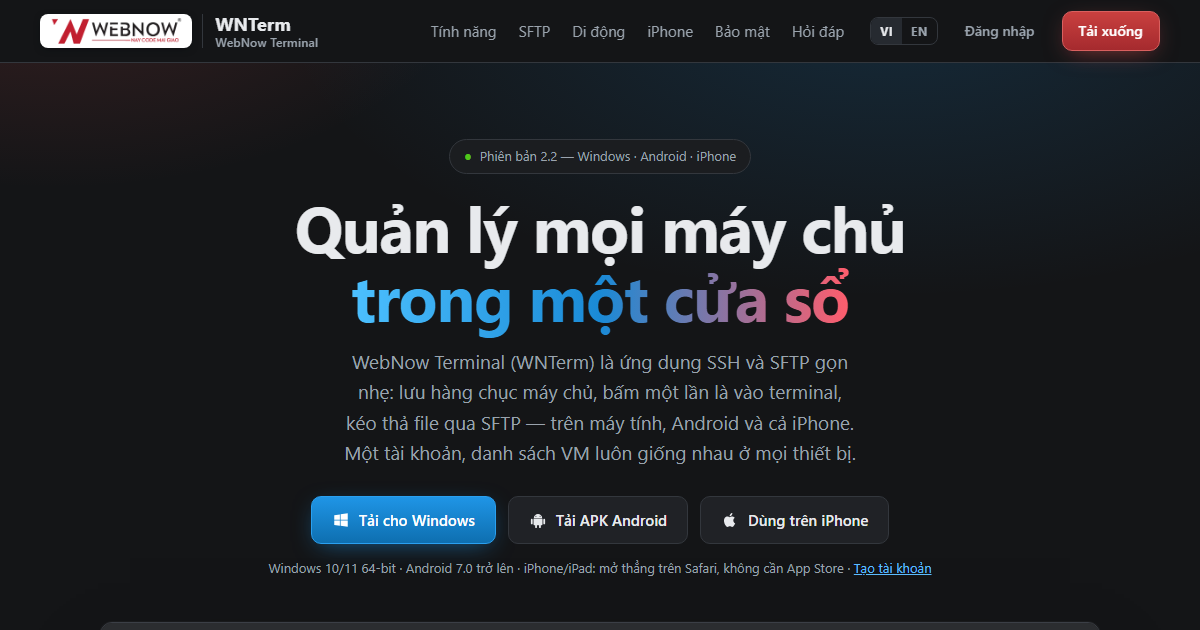
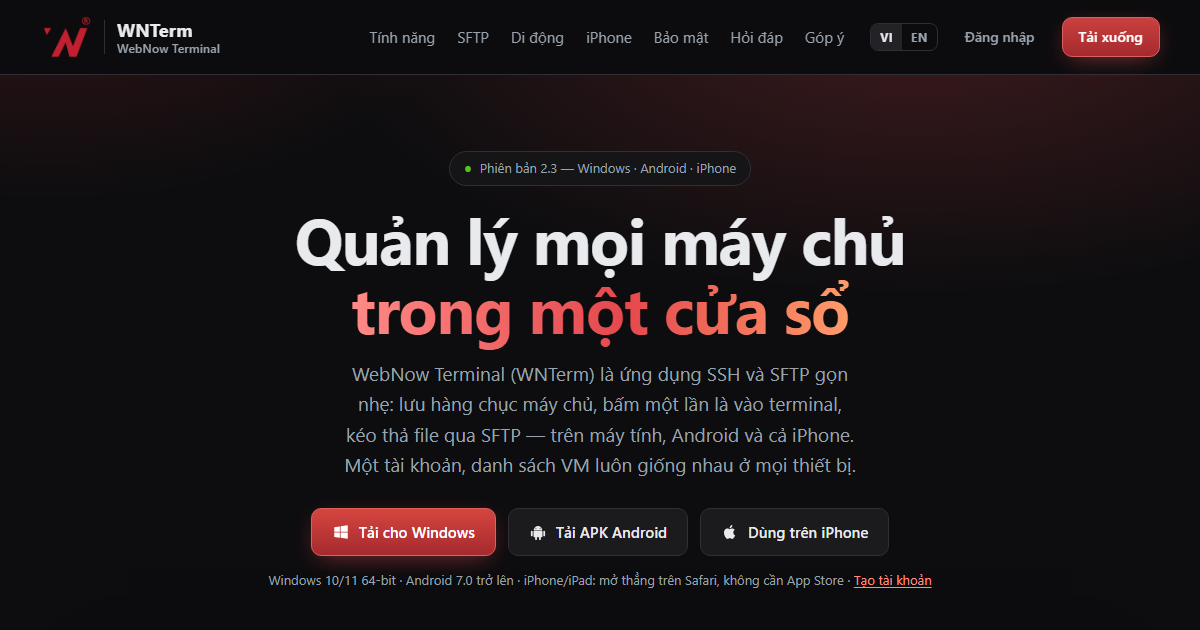
SEO + PageSpeed + tông đỏ-đen cho website
- canonical, hreflang, URL tiếng Anh /en/, JSON-LD (Organization/WebSite/SoftwareApplication/FAQPage)
- robots.txt, sitemap.xml động, noindex cho trang đăng nhập/đăng ký/khôi phục
- nén + cache tĩnh, lazy-load Turnstile, bỏ font 404, sửa tương phản/heading/landmark
- giao diện đỏ-đen, og-image mới (mock app giữ màu xanh)

diff --git a/server/public/assets/css/site.css b/server/public/assets/css/site.css
@@ -1,8 +1,6 @@
-@font-face{font-family:"JB Mono";src:url(assets/fonts/JetBrainsMono-Regular.woff2) format("woff2");font-weight:400;font-display:swap}
-@font-face{font-family:"JB Mono";src:url(assets/fonts/JetBrainsMono-Bold.woff2) format("woff2");font-weight:700;font-display:swap}
 :root{
-  --bg:#141517; --bg2:#1b1d20; --panel:#202226; --panel2:#262a30; --line:#33373d;
-  --fg:#e8eaed; --muted:#9aa3ad; --accent:#1a8ad6; --accent2:#0e639c; --red:#d4283a; --green:#52c41a; --amber:#faad14;
+  --bg:#0d0d0f; --bg2:#151517; --panel:#1b1b1e; --panel2:#232327; --line:#2f2f35;
+  --fg:#e8eaed; --muted:#9aa3ad; --accent:#e5484d; --accent2:#a52a2e; --red:#d4283a; --green:#52c41a; --amber:#faad14;
   --mono:"JB Mono",ui-monospace,Consolas,Menlo,monospace;
   --sans:system-ui,-apple-system,"Segoe UI",Roboto,"Helvetica Neue",Arial,sans-serif;
 }
@@ -50,7 +48,7 @@ h1 em{font-style:normal;background:linear-gradient(90deg,#4cc0ff,#1a8ad6 50%,#ff
 .body{display:grid;grid-template-columns:270px minmax(0,1fr);min-height:340px}
 .side{background:#252526;border-right:1px solid #3c3c3c;padding:10px}
 .tabs2{display:flex;gap:3px;margin:-2px 0 9px;border-bottom:1px solid #3c3c3c}
-.tabs2 b{padding:5px 12px;color:#aaa;font-size:12px}
+.tabs2 b{padding:5px 12px;color:#c4c4c4;font-size:12px}
 .tabs2 b.a{color:#fff;border-bottom:2px solid #1177bb}
 .search{height:26px;border:1px solid #3c3c3c;border-radius:6px;background:#2d2d30;margin-bottom:8px}
 .chips{display:flex;gap:5px;margin-bottom:8px}
@@ -72,7 +70,7 @@ h1 em{font-style:normal;background:linear-gradient(90deg,#4cc0ff,#1a8ad6 50%,#ff
 .tab.a{background:#1e1e1e;border:1px solid #3c3f41;border-bottom:0}
 .tab:before{content:"";width:7px;height:7px;border-radius:50%;background:#52c41a}
 .term{flex:1;padding:12px 14px;font:12.5px/1.55 var(--mono);color:#d4d4d4;white-space:pre;overflow:hidden}
-.term .g{color:#6a9955}.term .b{color:#569cd6}.term .y{color:#dcdcaa}.term .r{color:#f48771}.term .m{color:#c586c0}.term .c{color:#4ec9b0}.term .d{color:#808080}
+.term .g{color:#6a9955}.term .b{color:#569cd6}.term .y{color:#dcdcaa}.term .r{color:#f48771}.term .m{color:#c586c0}.term .c{color:#4ec9b0}.term .d{color:#a0a0a0}
 .cur{display:inline-block;width:8px;height:15px;background:#aeafad;vertical-align:-3px;animation:bl 1s steps(2) infinite}
 @keyframes bl{50%{opacity:0}}
 .mon{display:flex;gap:12px;align-items:center;padding:5px 10px;background:#16181a;border-top:1px solid #2d3139;color:#e6edf3;font-size:11px;white-space:nowrap;overflow:hidden}
@@ -81,6 +79,7 @@ h1 em{font-style:normal;background:linear-gradient(90deg,#4cc0ff,#1a8ad6 50%,#ff
 .spark{display:inline-block;width:38px;height:13px;vertical-align:-3px;border:1px solid #1b5e20;background:#0a1f0a;border-radius:2px}
 /* sections */
 section{padding:84px 0}
+section+section{content-visibility:auto;contain-intrinsic-size:auto 640px}
 .head{text-align:center;max-width:720px;margin:0 auto 46px}
 .eyebrow{color:var(--accent);font-weight:700;font-size:13px;letter-spacing:.14em;text-transform:uppercase}
 h2{font-size:clamp(28px,4vw,42px);line-height:1.15;margin:10px 0 12px;letter-spacing:-.015em}
@@ -126,8 +125,8 @@ h2{font-size:clamp(28px,4vw,42px);line-height:1.15;margin:10px 0 12px;letter-spa
 .phone .term{padding:8px;font-size:9.5px;height:278px;background:#1e1e1e}
 .keys{display:flex;gap:4px;padding:5px;background:#16181a;border-top:1px solid #2d3139;overflow:hidden}
 .keys i{font-style:normal;padding:5px 8px;border-radius:5px;background:#2d3139;border:1px solid #3c3c3c;color:#e6edf3;font-size:9.5px}
-.nav3{display:grid;grid-template-columns:repeat(3,1fr);background:#252526;border-top:1px solid #3c3c3c;text-align:center;padding:8px 0;color:#a0a0a0;font-size:10px}
-.nav3 b{color:#1a8ad6}
+.nav3{display:grid;grid-template-columns:repeat(3,1fr);background:#252526;border-top:1px solid #3c3c3c;text-align:center;padding:8px 0;color:#c4c4c4;font-size:10px}
+.nav3 b{color:#58b6f5}
 /* download */
 .dl{display:grid;grid-template-columns:repeat(3,1fr);gap:18px}
 .dlc{background:var(--panel);border:1px solid var(--line);border-radius:18px;padding:26px;display:flex;flex-direction:column;gap:12px}
@@ -152,7 +151,7 @@ details p{color:var(--muted);margin:10px 0 0;font-size:15px}
 footer{border-top:1px solid var(--line);padding:38px 0;color:var(--muted);font-size:14px}
 footer .wrap{display:flex;flex-wrap:wrap;gap:20px;align-items:center;justify-content:space-between}
 footer .lg{background:#fff;border-radius:8px;padding:5px 12px}
-footer .lg img{height:26px;display:block}
+footer .lg img{height:26px;width:auto;display:block}
 @media(max-width:900px){
   .grid,.dl{grid-template-columns:1fr 1fr}
   .split{grid-template-columns:minmax(0,1fr);gap:30px}.split.rev .txt{order:0}
@@ -176,7 +175,7 @@ nav .btn.ghost:hover{color:var(--fg);background:var(--panel)}
 .hero:before{background:radial-gradient(60% 60% at 70% 20%,rgba(26,138,214,.18),transparent 70%),radial-gradient(45% 55% at 12% 8%,rgba(209,78,77,.22),transparent 70%)}
 .eyebrow{color:#ff8a86}
 footer .cols{display:grid;grid-template-columns:1.3fr 1fr 1fr;gap:28px;width:100%}
-footer h4{margin:0 0 10px;color:var(--fg);font-size:14px;letter-spacing:.04em;text-transform:uppercase}
+footer .fh{display:block;font-weight:700;margin:0 0 10px;color:var(--fg);font-size:14px;letter-spacing:.04em;text-transform:uppercase}
 footer a:hover{color:var(--fg)}
 footer .lg{display:inline-block;margin-bottom:12px}
 footer ul{list-style:none;padding:0;margin:0;display:grid;gap:7px}
@@ -325,3 +324,19 @@ nav .wrap{height:74px}
 .fbform input:focus,.fbform textarea:focus{outline:none;border-color:var(--accent)}
 .fbform .alert{margin:0}
 .fbform .btn{justify-self:start}
+
+/* ===== Tông đỏ – đen (màu chủ đạo WebNow) ===== */
+nav{background:rgba(13,13,15,.88)}
+.btn:hover{border-color:#55383a}
+.btn.primary{background:linear-gradient(180deg,#d6453f,#a52a2e);border-color:#e0605b;color:#fff;box-shadow:0 6px 24px -8px rgba(229,72,77,.65)}
+.btn.primary:hover{background:linear-gradient(180deg,#e2554f,#b4312f)}
+.hero:before{background:radial-gradient(60% 60% at 72% 18%,rgba(229,72,77,.24),transparent 70%),radial-gradient(45% 55% at 12% 8%,rgba(165,42,46,.28),transparent 70%)}
+h1 em{background:linear-gradient(90deg,#ff8a86,#e5484d 55%,#ff9b6a);-webkit-background-clip:text;background-clip:text;color:transparent}
+.eyebrow{color:#ff8a86}
+.card .ico{background:rgba(229,72,77,.14);color:#ff8a86}
+.steps i.on{background:linear-gradient(90deg,#a52a2e,#ff6b66)}
+.check input{accent-color:#e5484d}
+.legal a,.adm .linkbtn{color:#ff8a86}
+.authwrap:before{background:radial-gradient(50% 45% at 80% 10%,rgba(229,72,77,.2),transparent 70%),radial-gradient(45% 50% at 10% 90%,rgba(165,42,46,.22),transparent 70%)}
+/* Phần mock giữ màu xanh của app thật */
+section p a,.meta a,.lead a,details a,.install a{color:#ff8a86;text-decoration:underline;text-underline-offset:2px}

diff --git a/server/src/views/head.php b/server/src/views/head.php
@@ -16,6 +16,11 @@ $ver = is_file($cssFile) ? (string)filemtime($cssFile) : '2';
 <meta name="viewport" content="width=device-width, initial-scale=1">
 <title><?= e($title) ?></title>
 <meta name="description" content="<?= e($desc) ?>">
+<?php $selfUrl = I18n::urlFor(wn_lang()); ?>
+<?php if (empty($noindex)): ?><link rel="canonical" href="<?= e($selfUrl) ?>">
+<meta name="robots" content="index,follow,max-image-preview:large,max-snippet:-1">
+<?php endif; ?>
+<meta property="og:url" content="<?= e($selfUrl) ?>">
 <meta property="og:title" content="<?= e($title) ?>">
 <meta property="og:description" content="<?= e($desc) ?>">
 <meta property="og:type" content="website">
@@ -23,16 +28,20 @@ $ver = is_file($cssFile) ? (string)filemtime($cssFile) : '2';
 <meta property="og:image" content="<?= e(url('assets/og-image.png')) ?>">
 <meta property="og:image:width" content="1200">
 <meta property="og:image:height" content="630">
+<meta property="og:image:alt" content="WebNow Terminal (WNTerm) — SSH &amp; SFTP">
 <meta property="og:site_name" content="WNTerm — WebNow Terminal">
 <meta name="twitter:card" content="summary_large_image">
+<meta name="twitter:title" content="<?= e($title) ?>">
+<meta name="twitter:description" content="<?= e($desc) ?>">
 <meta name="twitter:image" content="<?= e(url('assets/og-image.png')) ?>">
-<meta name="theme-color" content="#141517">
+<meta name="theme-color" content="#0d0d0f">
 <meta name="color-scheme" content="dark light">
-<?php if (!empty($noindex)): ?><meta name="robots" content="noindex"><?php endif; ?>
-<?php $lp = I18n::path(); ?>
-<link rel="alternate" hreflang="vi" href="<?= e(url($lp) . '?lang=vi') ?>">
-<link rel="alternate" hreflang="en" href="<?= e(url($lp) . '?lang=en') ?>">
-<link rel="alternate" hreflang="x-default" href="<?= e(url($lp)) ?>">
+<?php if (!empty($noindex)): ?><meta name="robots" content="noindex,nofollow"><?php else: ?>
+<link rel="alternate" hreflang="vi" href="<?= e(I18n::urlFor('vi')) ?>">
+<link rel="alternate" hreflang="en" href="<?= e(I18n::urlFor('en')) ?>">
+<link rel="alternate" hreflang="x-default" href="<?= e(I18n::urlFor('vi')) ?>">
+<?php endif; ?>
+<?php $viHref = I18n::urlFor('vi'); $enHref = I18n::urlFor('en'); ?>
 <link rel="icon" href="/assets/favicon.webp" type="image/webp">
 <link rel="icon" href="/assets/logo-n.png" type="image/png" sizes="256x256">
 <link rel="apple-touch-icon" href="/assets/apple-touch-icon.webp">
@@ -53,7 +62,7 @@ $ver = is_file($cssFile) ? (string)filemtime($cssFile) : '2';
     </div>
     <div class="actions">
       <div class="lang" role="group" aria-label="<?= e(t('nav.language')) ?>">
-        <a href="<?= e($lp) ?>?lang=vi" hreflang="vi" lang="vi"<?= wn_lang() === 'vi' ? ' class="on" aria-current="true"' : '' ?>>VI</a><a href="<?= e($lp) ?>?lang=en" hreflang="en" lang="en"<?= wn_lang() === 'en' ? ' class="on" aria-current="true"' : '' ?>>EN</a>
+        <a href="<?= e($viHref) ?>" hreflang="vi" lang="vi"<?= wn_lang() === 'vi' ? ' class="on" aria-current="true"' : '' ?>>VI</a><a href="<?= e($enHref) ?>" hreflang="en" lang="en"<?= wn_lang() === 'en' ? ' class="on" aria-current="true"' : '' ?>>EN</a>
       </div>
       <a class="btn ghost" href="/dang-nhap"><?= ($active ?? '') === 'account' ? t('nav.account') : t('nav.login') ?></a>
       <a class="btn brand" href="/#tai-ve"><?= t('nav.download') ?></a>

diff --git a/server/src/views/home.php b/server/src/views/home.php
@@ -203,6 +203,38 @@
     </details>
   </div>
 </section>
+<?php
+$abs = static function (string $s): string { return trim(preg_replace('/\s+/u', ' ', html_entity_decode(strip_tags($s), ENT_QUOTES | ENT_HTML5, 'UTF-8')) ?? ''); };
+$faq = [];
+for ($i = 1; $i <= 9; $i++) {
+    $faq[] = ['@type' => 'Question', 'name' => $abs(t("faq.$i.q")),
+              'acceptedAnswer' => ['@type' => 'Answer', 'text' => $abs(t("faq.$i.a"))]];
+}
+$b = brand();
+$ld = [
+    '@context' => 'https://schema.org',
+    '@graph' => [
+        ['@type' => 'Organization', '@id' => url('#org'), 'name' => $b['company'], 'url' => $b['site'],
+         'logo' => url('assets/logo-n.png'), 'email' => $b['email'], 'telephone' => $b['phone'],
+         'sameAs' => [$b['facebook'], $b['tiktok']]],
+        ['@type' => 'WebSite', '@id' => url('#web'), 'url' => url('/'), 'name' => 'WebNow Terminal (WNTerm)',
+         'inLanguage' => wn_lang(), 'publisher' => ['@id' => url('#org')]],
+        ['@type' => 'SoftwareApplication', 'name' => 'WebNow Terminal (WNTerm)', 'alternateName' => 'WNTerm',
+         'applicationCategory' => 'DeveloperApplication', 'operatingSystem' => 'Windows, Android, iOS',
+         'softwareVersion' => Versions::version('windows'), 'url' => url('/'),
+         'image' => url('assets/og-image.png'), 'description' => t('home.desc'),
+         'downloadUrl' => url('downloads/WNTerm-Setup.zip'),
+         'offers' => ['@type' => 'Offer', 'price' => '0', 'priceCurrency' => 'VND'],
+         'publisher' => ['@id' => url('#org')]],
+        ['@type' => 'FAQPage', 'mainEntity' => $faq],
+    ],
+];
+?>
+<script type="application/ld+json"><?= json_encode($ld, JSON_UNESCAPED_UNICODE | JSON_UNESCAPED_SLASHES | JSON_HEX_TAG) ?></script>
+<?php if (!empty($feedbackOn) && !empty($turnstileKey)): ?>
+<script>(function(){var d=document.getElementById('feedback'),l=0;if(!d)return;function load(){if(l)return;l=1;var s=document.createElement('script');s.src='https://challenges.cloudflare.com/turnstile/v0/api.js';s.async=true;s.defer=true;document.head.appendChild(s);}
+d.addEventListener('toggle',function(){if(d.open)load();});if(d.open)load();})();</script>
+<?php endif; ?>
 <script>(function(){function go(){var d=document.getElementById('feedback');if(!d)return;d.open=true;setTimeout(function(){d.scrollIntoView({behavior:'smooth',block:'center'});},60);}
 if(location.hash==='#feedback')go();
 addEventListener('hashchange',function(){if(location.hash==='#feedback')go();});

diff --git a/server/src/I18n.php b/server/src/I18n.php
@@ -4,7 +4,7 @@ declare(strict_types=1);
 /**
  * Đa ngôn ngữ tối giản (vi | en) cho các trang web.
  *
- * Chọn ngôn ngữ: ?lang=vi|en  →  cookie `wnlang` (1 năm)  →  Accept-Language (vi → vi, còn lại → en).
+ * Chọn ngôn ngữ: ?lang=vi|en  →  cookie `wnlang` (1 năm)  →  Accept-Language (trống hoặc vi → vi, còn lại → en; Googlebot không gửi header nên thấy bản vi).
  * Từ điển nằm ở src/lang/vi.php và src/lang/en.php (mảng key => chuỗi, có thể chứa HTML tin cậy
  * và các chỗ %s/%1$s cho sprintf). Vì từ điển là nội dung tin cậy nên t() KHÔNG escape;
  * dùng e(t(...)) khi đặt vào thuộc tính HTML.
@@ -37,7 +37,8 @@ final class I18n
         }
         $al = strtolower((string)($_SERVER['HTTP_ACCEPT_LANGUAGE'] ?? ''));
         // Lấy ngôn ngữ ưu tiên cao nhất (đứng đầu danh sách): vi → vi, còn lại → en.
-        if ($al !== '' && preg_match('/^\s*([a-z]{1,8})/', $al, $m) && $m[1] === 'vi') {
+        // Không có header (Googlebot, công cụ kiểm tra) → bản vi, ngôn ngữ chính của site.
+        if ($al === '' || (preg_match('/^\s*([a-z]{1,8})/', $al, $m) && $m[1] === 'vi')) {
             return 'vi';
         }
         return 'en';
@@ -73,6 +74,26 @@ final class I18n
             }
         }
         return $key;
+    }
+
+    /** Đường dẫn gốc không có tiền tố ngôn ngữ (/en/...) và không .php. */
+    public static function basePath(): string
+    {
+        $p = self::path();
+        if ($p === '/en' || $p === '/en/') {
+            return '/';
+        }
+        if (strncmp($p, '/en/', 4) === 0) {
+            return substr($p, 3);
+        }
+        return $p;
+    }
+
+    /** URL tuyệt đối của trang hiện tại ở ngôn ngữ $lang (vi: /path, en: /en/path). */
+    public static function urlFor(string $lang): string
+    {
+        $p = self::basePath();
+        return $lang === 'en' ? url('en' . ($p === '/' ? '/' : $p)) : url($p);
     }
 
     /** Đường dẫn hiện tại (không query) để dựng liên kết đổi ngôn ngữ / hreflang. */

diff --git a/server/public/sitemap.php b/server/public/sitemap.php
@@ -1,0 +1,34 @@
+<?php
+declare(strict_types=1);
+require __DIR__ . '/../src/bootstrap.php';
+
+header('Content-Type: application/xml; charset=utf-8');
+header('Cache-Control: public, max-age=3600');
+
+// Trang được lập chỉ mục: [đường dẫn vi, file nguồn dùng lấy lastmod, ưu tiên]
+$pages = [
+    ['/', __DIR__ . '/../src/views/home.php', '1.0'],
+    ['/dieu-khoan', __DIR__ . '/dieu-khoan.php', '0.3'],
+];
+$lastmodOf = static function (string $f): string {
+    $t = max((int)@filemtime($f), (int)@filemtime(WN_SRC . '/lang/vi.php'), (int)@filemtime(WN_SRC . '/lang/en.php'));
+    return gmdate('Y-m-d', $t ?: time());
+};
+echo '<?xml version="1.0" encoding="UTF-8"?>' . "\n";
+?>
+<urlset xmlns="http://www.sitemaps.org/schemas/sitemap/0.9" xmlns:xhtml="http://www.w3.org/1999/xhtml">
+<?php foreach ($pages as [$p, $src, $prio]):
+    $vi = url($p);
+    $en = url('en' . ($p === '/' ? '/' : $p));
+    $lm = $lastmodOf($src);
+    foreach ([$vi, $en] as $loc): ?>
+  <url>
+    <loc><?= e($loc) ?></loc>
+    <lastmod><?= $lm ?></lastmod>
+    <priority><?= $prio ?></priority>
+    <xhtml:link rel="alternate" hreflang="vi" href="<?= e($vi) ?>"/>
+    <xhtml:link rel="alternate" hreflang="en" href="<?= e($en) ?>"/>
+    <xhtml:link rel="alternate" hreflang="x-default" href="<?= e($vi) ?>"/>
+  </url>
+<?php endforeach; endforeach; ?>
+</urlset>

diff --git a/server/src/views/foot.php b/server/src/views/foot.php
@@ -3,13 +3,13 @@
   <div class="wrap">
     <div class="cols">
       <div>
-        <a class="lg" href="<?= e($b['site']) ?>" rel="noopener"><img src="/assets/webnow-logo.webp" alt="WebNow — <?= e($b['slogan']) ?>"></a>
+        <a class="lg" href="<?= e($b['site']) ?>" rel="noopener"><img src="/assets/webnow-logo.webp" alt="WebNow — <?= e($b['slogan']) ?>" width="300" height="59" loading="lazy" decoding="async"></a>
         <div><?= e($b['company']) ?></div>
         <div style="margin-top:6px"><?= t('foot.tax') ?>: <?= e($b['mst']) ?></div>
         <div style="margin-top:6px"><?= e($b['address']) ?></div>
       </div>
       <div>
-        <h4><?= t('foot.contact') ?></h4>
+        <div class="fh"><?= t('foot.contact') ?></div>
         <ul>
           <li><a href="tel:<?= e(preg_replace('/\s+/', '', $b['phone'])) ?>"><?= e($b['phone']) ?></a></li>
           <li><a href="tel:<?= e(preg_replace('/\s+/', '', $b['phone2'])) ?>"><?= e($b['phone2']) ?></a></li>
@@ -18,7 +18,7 @@
         </ul>
       </div>
       <div>
-        <h4>WNTerm</h4>
+        <div class="fh">WNTerm</div>
         <ul>
           <li><a href="/#tai-ve"><?= t('nav.download') ?></a></li>
           <li><a href="/dang-ky"><?= t('nav.register') ?></a></li>

diff --git a/server/src/lang/vi.php b/server/src/lang/vi.php
@@ -1,6 +1,6 @@
 <?php
 // Từ điển tiếng Việt (nguồn gốc). Giá trị có thể chứa HTML tin cậy.
-$a = 'style="color:#5cbcff;text-decoration:underline"';
+$a = 'style="color:#ff8a86;text-decoration:underline"';
 $ac = 'style="color:var(--accent)"';
 return [
     // ---- chung ----
@@ -22,7 +22,7 @@ return [
 
     // ---- trang chủ: meta ----
     'home.title' => 'WebNow Terminal (WNTerm) — SSH & SFTP cho Windows, Android và iPhone',
-    'home.desc' => 'WebNow Terminal (WNTerm): SSH và SFTP quản lý nhiều máy chủ trên Windows, Android và iPhone (bản web). Terminal mượt, SFTP, theo dõi CPU/RAM, backup và đồng bộ mã hóa đầu-cuối, thùng rác khôi phục VM, nhập từ MobaXterm.',
+    'home.desc' => 'WNTerm: phần mềm SSH & SFTP quản lý nhiều máy chủ trên Windows, Android, iPhone. Đồng bộ và backup mã hóa đầu-cuối, theo dõi CPU/RAM, nhập từ MobaXterm. Tải miễn phí.',
 
     // ---- hero ----
     'hero.pill' => '<b>●</b> Phiên bản 2.3 — Windows · Android · iPhone',

diff --git a/server/src/lang/en.php b/server/src/lang/en.php
@@ -1,6 +1,6 @@
 <?php
 // English dictionary. Values may contain trusted HTML.
-$a = 'style="color:#5cbcff;text-decoration:underline"';
+$a = 'style="color:#ff8a86;text-decoration:underline"';
 $ac = 'style="color:var(--accent)"';
 return [
     // ---- common ----
@@ -22,7 +22,7 @@ return [
 
     // ---- home: meta ----
     'home.title' => 'WebNow Terminal (WNTerm) — SSH & SFTP for Windows, Android and iPhone',
-    'home.desc' => 'WebNow Terminal (WNTerm): SSH and SFTP client for managing many servers on Windows, Android and iPhone (web app). Smooth terminal, SFTP, CPU/RAM monitoring, end-to-end encrypted backup and sync, a trash bin to restore VMs, MobaXterm import.',
+    'home.desc' => 'WNTerm: SSH & SFTP client to manage many servers on Windows, Android and iPhone. End-to-end encrypted sync and backup, CPU/RAM monitoring, MobaXterm import. Free download.',
 
     // ---- hero ----
     'hero.pill' => '<b>●</b> Version 2.3 — Windows · Android · iPhone',

diff --git a/server/tools/router.php b/server/tools/router.php
@@ -5,6 +5,20 @@ if (strpos($path, '/api/v1') === 0) {
     require __DIR__ . '/../public/api/index.php';
     return true;
 }
+if ($path === '/sitemap.xml') {
+    require __DIR__ . '/../public/sitemap.php';
+    return true;
+}
+// Bản tiếng Anh: /en/ và /en/<trang> (giống RewriteRule trong .htaccess)
+if (preg_match('#^/en(?:/([a-z0-9-]*))?$#', $path, $m)) {
+    $_GET['lang'] = 'en';
+    $page = $m[1] ?? '';
+    $f = __DIR__ . '/../public/' . ($page === '' ? 'index' : $page) . '.php';
+    if (is_file($f)) {
+        require $f;
+        return true;
+    }
+}
 $file = __DIR__ . '/../public' . $path;
 if ($path !== '/' && is_file($file)) {
     return false;                       // file tĩnh

diff --git a/server/public/index.php b/server/public/index.php
@@ -8,8 +8,7 @@ $active = 'home';
 $turnstileKey = (string)wn_config('turnstile.site_key', '');
 $feedbackOn = (string)wn_config('telegram.bot_token', '') !== '' && (string)wn_config('telegram.chat_id', '') !== '';
 view('head', compact('title', 'desc', 'active'));
-if ($turnstileKey !== '' && $feedbackOn) {
-    echo '<script src="https://challenges.cloudflare.com/turnstile/v0/api.js" async defer></script>';
-}
+echo '<main>';
 view('home', compact('turnstileKey', 'feedbackOn'));
+echo '</main>';
 view('foot', $feedbackOn ? ['scripts' => ['feedback.js']] : []);

diff --git a/server/public/dang-ky.php b/server/public/dang-ky.php
@@ -11,7 +11,8 @@ $turnstileKey = (string)wn_config('turnstile.site_key', '');
 if ($turnstileKey !== '') {
     $extraHead = '<script src="https://challenges.cloudflare.com/turnstile/v0/api.js" async defer></script>';
 }
-view('head', compact('title', 'desc', 'active'));
+$noindex = true;
+view('head', compact('title', 'desc', 'active', 'noindex'));
 if (!empty($extraHead)) { echo $extraHead; }
 ?>
 <main class="authwrap">

diff --git a/server/public/dang-nhap.php b/server/public/dang-nhap.php
@@ -6,7 +6,8 @@ $title = t('login.title');
 $desc = t('login.desc');
 $active = 'account';
 $scripts = ['wn-crypto.js', 'login.js'];
-view('head', compact('title', 'desc', 'active'));
+$noindex = true;
+view('head', compact('title', 'desc', 'active', 'noindex'));
 ?>
 <main class="authwrap">
   <div class="auth">
